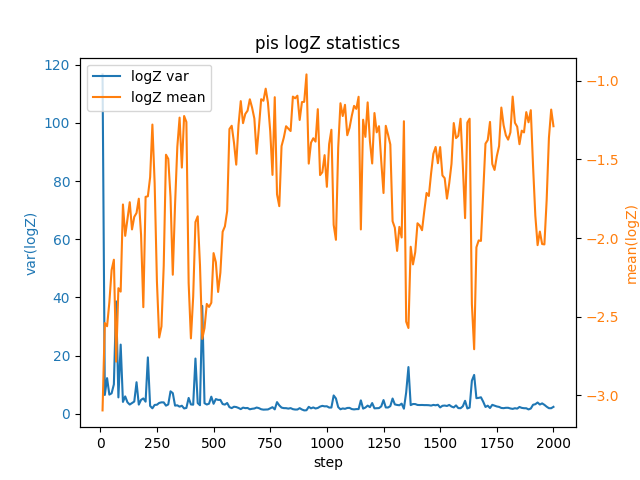
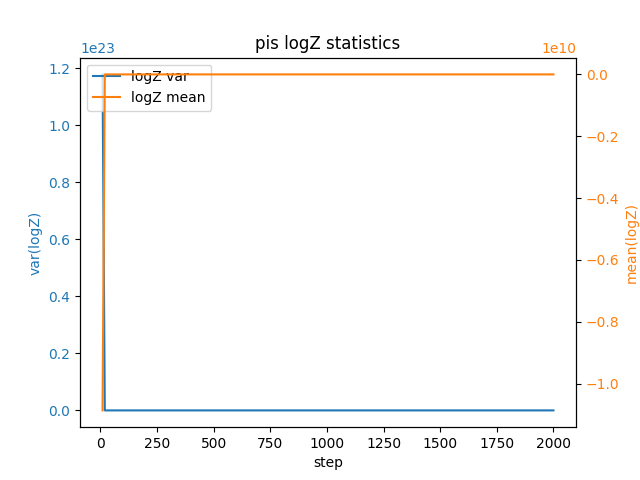
debug

diff --git a/mcjax/process/algo.py b/mcjax/process/algo.py
@@ -51,10 +51,10 @@ class BaseAlgorithm(ABC):
             self.target_dist = GMM40()
             self.data_dim = 2
         elif config.target_dist == '1d':
-            mu = jnp.array([[-2.],[2.]])
-            dist_sigma = jnp.array([0.5,0.5])
+            mu = jnp.array([[-2.],[2.],[4.]])
+            dist_sigma = jnp.array([0.5,0.5,0.2])
             log_var = jnp.log(dist_sigma**2)
-            weights = jnp.array([0.3,0.7])
+            weights = jnp.array([0.5,0.3,0.2])
             self.target_dist = MixedIsotropicGauss(
                 mu=mu, log_var=log_var, weights=weights
             )
